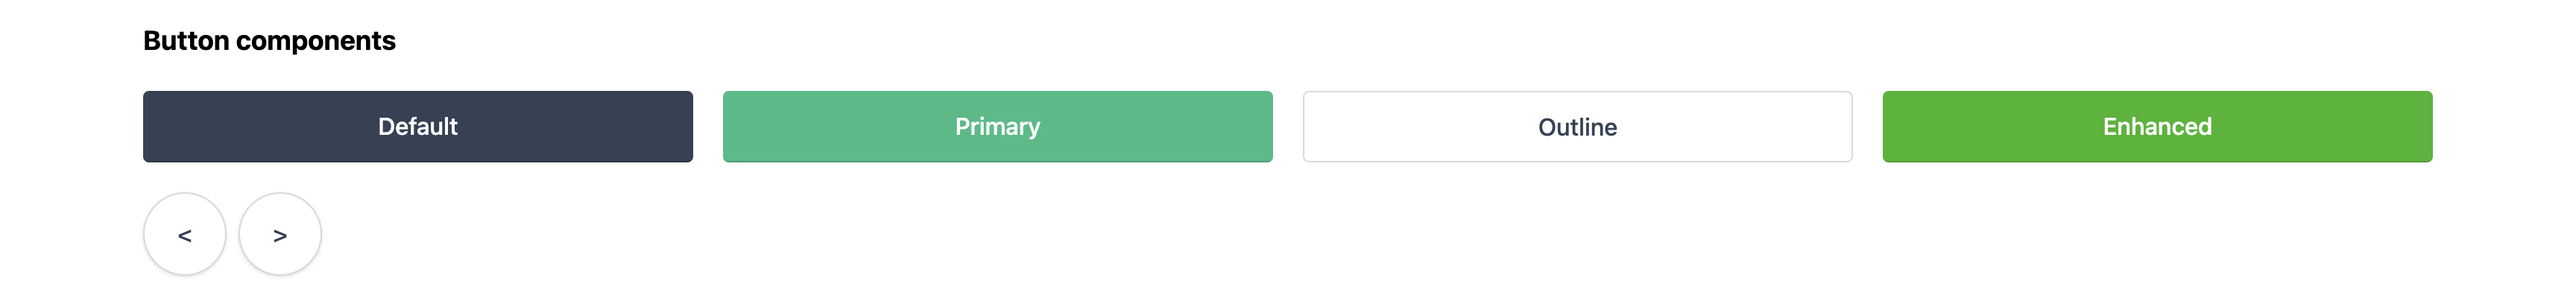
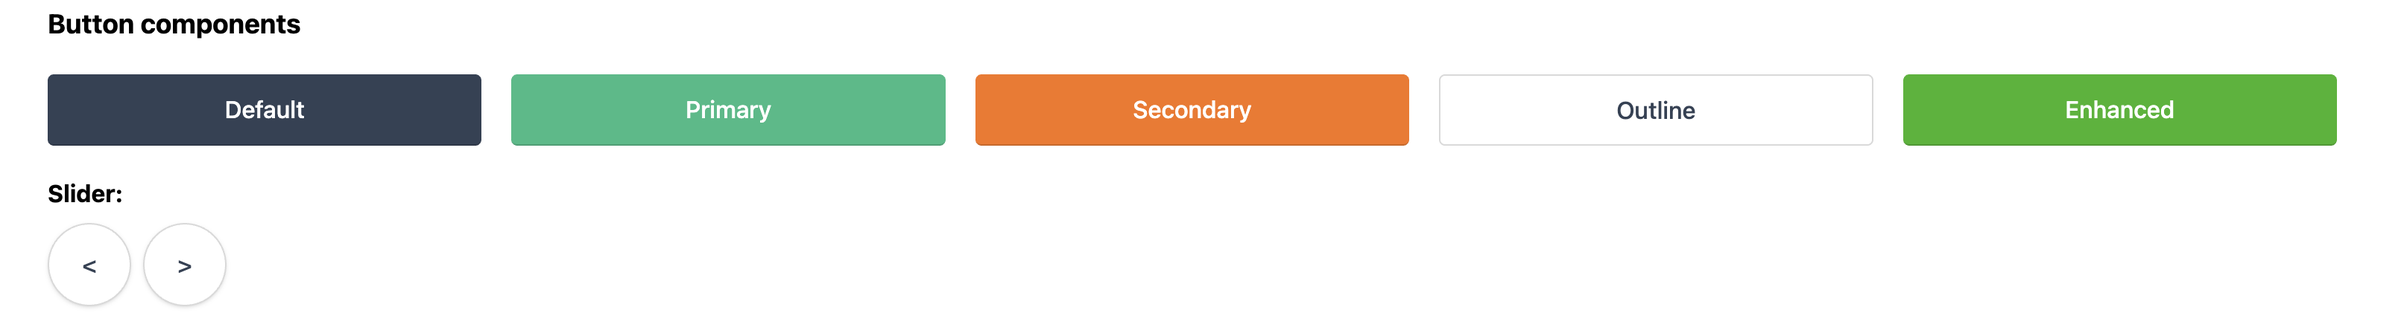
Update readme & screenshot | Added secondary button variant

diff --git a/resources/views/components-preview.blade.php b/resources/views/components-preview.blade.php
@@ -16,6 +16,10 @@
                             DEFAULT: '#2FBC85',
                             text: '#FFFFFF',
                         },
+                        secondary: {
+                            DEFAULT: '#F97316',
+                            text: '#FFFFFF',
+                        },
                         neutral: '#334155',
                         inactive: '#64748B',
                         border: '#E7EBEF',
@@ -147,9 +151,10 @@
             </div>
 
             <h2 class="font-bold text-lg">Button components</h2>
-            <div class="grid grid-cols-4 gap-5">
+            <div class="grid grid-cols-5 gap-5">
                 <x-rapidez::button>Default</x-rapidez::button>
                 <x-rapidez::button.primary>Primary</x-rapidez::button.primary>
+                <x-rapidez::button.secondary>Secondary</x-rapidez::button.secondary>
                 <x-rapidez::button.outline>Outline</x-rapidez::button.outline>
                 <x-rapidez::button.enhanced>Enhanced</x-rapidez::button.enhanced>
                 <div class="flex flex-col gap-2">

diff --git a/resources/views/components/button/primary.blade.php b/resources/views/components/button/primary.blade.php
@@ -6,6 +6,6 @@ Example:
 <x-rapidez::button.primary>Something</x-rapidez::button.primary>
 ```
 --}}
-<x-rapidez::button {{ $attributes->twMerge('bg-primary text-primary-text border-b border-black/15') }}>
+<x-rapidez::button {{ $attributes->twMerge('bg-primary text-primary-text') }}>
     {{ $slot }}
 </x-rapidez::button>

diff --git a/resources/views/components/button/enhanced.blade.php b/resources/views/components/button/enhanced.blade.php
@@ -1,6 +1,6 @@
 {{--
-This is the enhanced button the button can be used for the add to cart buttons
-and it can be used inside the checkout.
+The enhanced button is a variant specifically used for anything conversion related.
+Like purchasing a product or completing the checkout.
 Example:
 
 ```

diff --git a/resources/views/components/button/secondary.blade.php b/resources/views/components/button/secondary.blade.php
@@ -1,0 +1,11 @@
+{{--
+This is the secondary button.
+Example:
+
+```
+<x-rapidez::button.secondary>Something</x-rapidez::button.secondary>
+```
+--}}
+<x-rapidez::button {{ $attributes->twMerge('bg-secondary text-secondary-text') }}>
+    {{ $slot }}
+</x-rapidez::button>

diff --git a/README.md b/README.md
@@ -2,6 +2,8 @@
 
 This package includes some Tailwind CSS styled Blade components, the components do not need or require Rapidez. This package is only used within Rapidez by default, but **can be used in any Laravel project**.
 
+### Inputs
+
 - [Input](https://github.com/rapidez/blade-components/blob/master/resources/views/components/input/index.blade.php)
 - [Checkbox](https://github.com/rapidez/blade-components/blob/master/resources/views/components/input/checkbox/index.blade.php)
 - [Radio](https://github.com/rapidez/blade-components/blob/master/resources/views/components/input/radio/index.blade.php)
@@ -15,7 +17,7 @@ We don't provide a input + label combination component as you'll end up with att
 
 ![](.github/media/screenshot.png)
 
-**Buttons**
+### Buttons
 
 - [Base](https://github.com/rapidez/blade-components/blob/master/resources/views/components/button/base.blade.php)
 - [Index](https://github.com/rapidez/blade-components/blob/master/resources/views/components/button/index.blade.php)
@@ -42,6 +44,10 @@ colors: {
     colors: {
         primary: {
             DEFAULT: '#2FBC85',
+            text: '#FFFFFF',
+        },
+        secondary: {
+            DEFAULT: '#F97316',
             text: '#FFFFFF',
         },
         neutral: '#334155',
